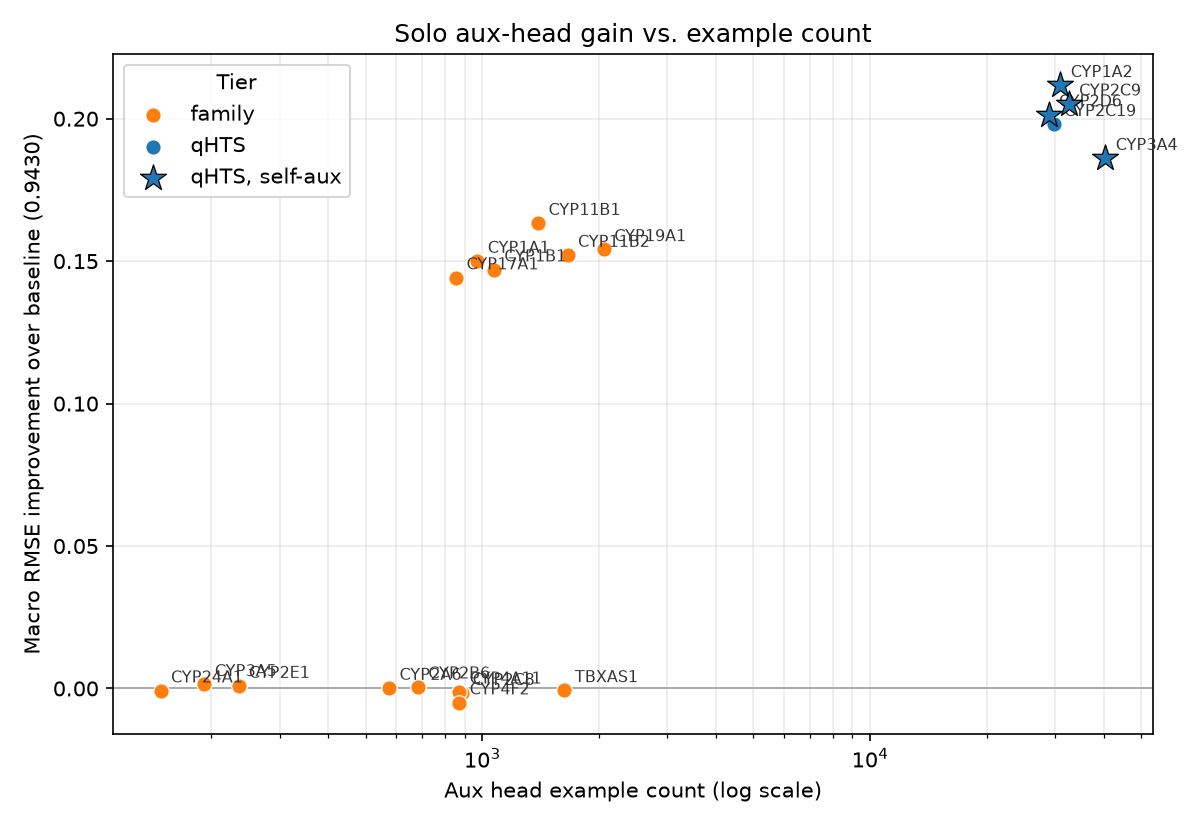
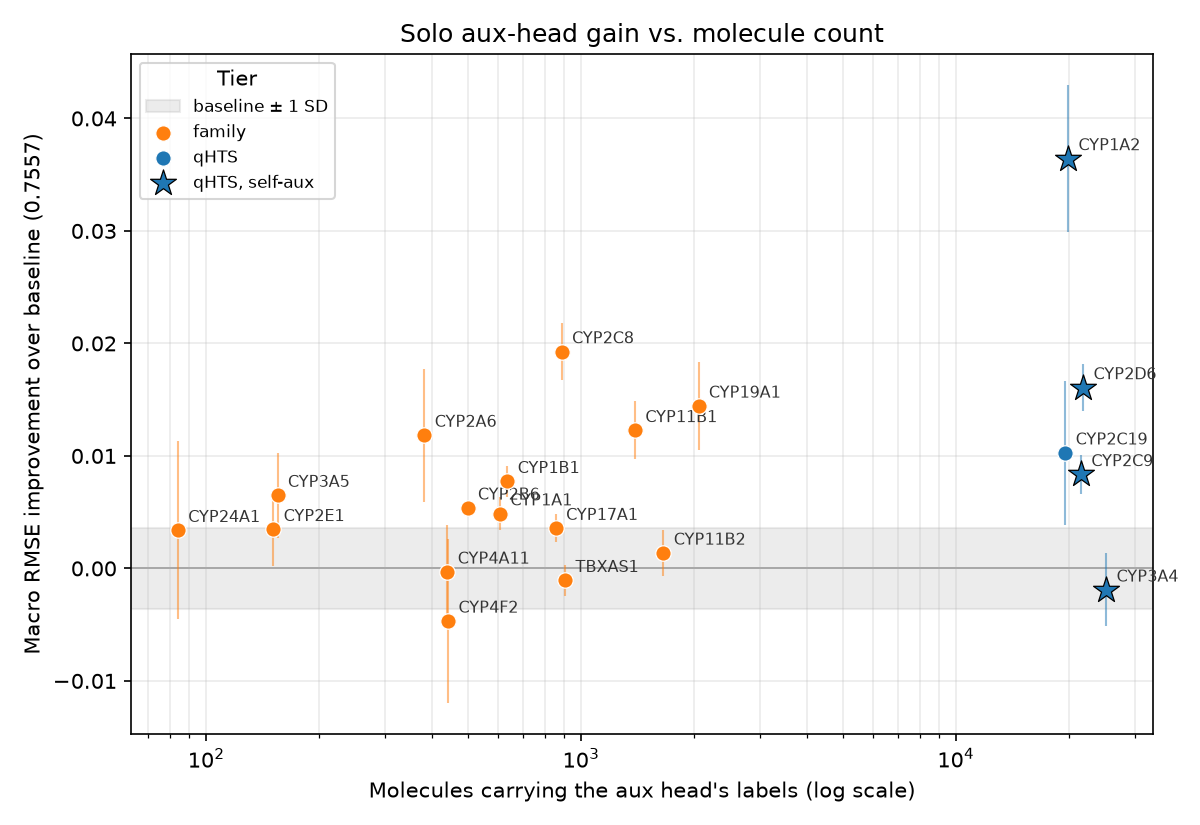
Compute plot_volume_vs_gain from data instead of a hardcoded table
The gene/count/RMSE table was hardcoded from a specific SCC run and
went stale the moment head-search or the union changed. Read gains from
results/head_search.json and molecule counts from
aux_similarity.py's --out table instead, so the plot regenerates itself
against whichever run produced those files.

diff --git a/scripts/plot_volume_vs_gain.py b/scripts/plot_volume_vs_gain.py
@@ -1,92 +1,106 @@
-"""Plot solo aux-head macro RMSE gain vs. example count (reports/head_search_analysis.md).
+"""Plot solo aux-head macro RMSE gain vs. molecule count (reports/head_search_analysis.md).
 
-Data hardcoded from results/data_counts.csv (row totals) and
-results/head_search_results.csv (solo-head macro RMSE, baseline 0.9430) --
-the BU SCC head-search run of 2026-09-14. Re-derive from those CSVs directly
-if either is regenerated.
+Gains come from the head-search JSON (solo configs only, `baseline - solo`, so
+positive means the head helped) and molecule counts from the `n_molecules`
+column of `scripts/aux_similarity.py`'s table -- molecules in the union that
+carry at least one of the head's labels, i.e. exactly what the fixed
+head-search adds to training when it selects that head. Error bars are the
+solo config's seed SD; the grey band is the baseline's.
+
+Usage:
+    python scripts/plot_volume_vs_gain.py \
+        [--results-path results/head_search.json] [--similarity-path results/aux_similarity.csv]
 """
 
+import argparse
+import csv
+import json
+import os
+import sys
 from pathlib import Path
 
-import matplotlib.pyplot as plt
+# Must precede the pyplot import: the default cache lands in $HOME, which is
+# over quota on the SCC.
+os.environ.setdefault("MPLCONFIGDIR", os.environ.get("TMPDIR", "/tmp") + "/mpl-cache")
+Path(os.environ["MPLCONFIGDIR"]).mkdir(parents=True, exist_ok=True)
 
-_BASELINE = 0.9430
+import matplotlib  # noqa: E402
 
-# gene, total rows, solo macro RMSE, tier, self-aux (isoform also has a scored column)
+matplotlib.use("Agg")
+import matplotlib.pyplot as plt  # noqa: E402
+
+# Isoforms that also have a scored column: their aux head trains the same
+# protein the metric is computed on.
 _SELF_AUX = {"CYP1A2", "CYP2C9", "CYP2D6", "CYP3A4"}
-
-_DATA = [
-    ("CYP3A4", 40432, 0.7569, "qHTS"),
-    ("CYP2C9", 32527, 0.7378, "qHTS"),
-    ("CYP1A2", 30958, 0.7313, "qHTS"),
-    ("CYP2C19", 29780, 0.7450, "qHTS"),
-    ("CYP2D6", 28847, 0.7416, "qHTS"),
-    ("CYP19A1", 2058, 0.7889, "family"),
-    ("TBXAS1", 1628, 0.9437, "family"),
-    ("CYP11B2", 1659, 0.7909, "family"),
-    ("CYP1B1", 1071, 0.7960, "family"),
-    ("CYP1A1", 971, 0.7930, "family"),
-    ("CYP2C8", 888, 0.9447, "family"),
-    ("CYP4A11", 872, 0.9442, "family"),
-    ("CYP4F2", 872, 0.9480, "family"),
-    ("CYP11B1", 1393, 0.7797, "family"),
-    ("CYP17A1", 856, 0.7988, "family"),
-    ("CYP2B6", 682, 0.9424, "family"),
-    ("CYP2A6", 575, 0.9429, "family"),
-    ("CYP2E1", 235, 0.9422, "family"),
-    ("CYP3A5", 192, 0.9416, "family"),
-    ("CYP24A1", 148, 0.9438, "family"),
-]
+_QHTS = {"CYP1A2", "CYP2C9", "CYP2C19", "CYP2D6", "CYP3A4"}
 
 _COLORS = {"qHTS": "#1f77b4", "family": "#ff7f0e"}
 
 
 def main() -> None:
     """Render the volume-vs-gain scatter to reports/data_volume_vs_gain.png."""
+    parser = argparse.ArgumentParser(description=__doc__, formatter_class=argparse.RawDescriptionHelpFormatter)
+    parser.add_argument("--results-path", type=Path, default=Path("results/head_search.json"))
+    parser.add_argument("--similarity-path", type=Path, default=Path("results/aux_similarity.csv"))
+    parser.add_argument("--out", type=Path, default=Path("reports/data_volume_vs_gain.png"))
+    args = parser.parse_args()
+
+    entries = json.loads(args.results_path.read_text())
+    baseline = next((e for e in entries if not e["candidates"]), None)
+    if baseline is None:
+        raise SystemExit(f"{args.results_path} has no baseline entry (one with an empty 'candidates')")
+    solo = {e["candidates"][0]: e for e in entries if len(e["candidates"]) == 1}
+
+    with args.similarity_path.open(newline="") as handle:
+        counts = {r["name"]: int(r["n_molecules"]) for r in csv.DictReader(handle) if not r["name"].startswith("__")}
+
+    missing = sorted(set(solo) - set(counts))
+    if missing:
+        print(f"WARNING: no molecule count for {missing}; dropped from the plot", file=sys.stderr)
+
+    base = baseline["macro_rmse_mean"]
+    base_sd = baseline["macro_rmse_sd"]
+    points = [
+        (gene, counts[gene], base - entry["macro_rmse_mean"], entry["macro_rmse_sd"])
+        for gene, entry in solo.items()
+        if gene in counts
+    ]
+
     fig, ax = plt.subplots(figsize=(8, 5.5))
+    ax.axhspan(-base_sd, base_sd, color="#999999", alpha=0.18, zorder=0, label="baseline ± 1 SD")
+    ax.axhline(0, color="#999999", linewidth=0.8, zorder=1)
 
-    for tier in ("family", "qHTS"):
-        rows = [d for d in _DATA if d[3] == tier and d[0] not in _SELF_AUX]
-        x = [r[1] for r in rows]
-        y = [_BASELINE - r[2] for r in rows]
-        ax.scatter(x, y, label=tier, color=_COLORS[tier], s=55, zorder=3, edgecolor="white", linewidth=0.6)
-
-    self_rows = [d for d in _DATA if d[0] in _SELF_AUX]
-    ax.scatter(
-        [r[1] for r in self_rows],
-        [_BASELINE - r[2] for r in self_rows],
-        label="qHTS, self-aux",
-        color=_COLORS["qHTS"],
-        marker="*",
-        s=170,
-        zorder=4,
-        edgecolor="black",
-        linewidth=0.6,
-    )
-
-    for gene, n, rmse, _tier in _DATA:
-        ax.annotate(
-            gene,
-            (n, _BASELINE - rmse),
-            textcoords="offset points",
-            xytext=(5, 4),
-            fontsize=7.5,
-            color="#333333",
+    groups = [
+        ("family", lambda g: g not in _QHTS, "o", 55),
+        ("qHTS", lambda g: g in _QHTS and g not in _SELF_AUX, "o", 55),
+        ("qHTS, self-aux", lambda g: g in _SELF_AUX, "*", 170),
+    ]
+    for label, keep, marker, size in groups:
+        rows = [p for p in points if keep(p[0])]
+        color = _COLORS["family" if label == "family" else "qHTS"]
+        ax.errorbar(
+            [r[1] for r in rows], [r[2] for r in rows], yerr=[r[3] for r in rows],
+            fmt="none", ecolor=color, alpha=0.5, linewidth=1.0, zorder=2,
+        )
+        ax.scatter(
+            [r[1] for r in rows], [r[2] for r in rows], label=label, color=color, marker=marker, s=size,
+            zorder=4, edgecolor="black" if marker == "*" else "white", linewidth=0.6,
         )
 
-    ax.axhline(0, color="#999999", linewidth=0.8, zorder=1)
+    for gene, n, gain, _sd in points:
+        ax.annotate(gene, (n, gain), textcoords="offset points", xytext=(5, 4), fontsize=7.5, color="#333333")
+
     ax.set_xscale("log")
-    ax.set_xlabel("Aux head example count (log scale)")
-    ax.set_ylabel("Macro RMSE improvement over baseline (0.9430)")
-    ax.set_title("Solo aux-head gain vs. example count")
-    ax.legend(title="Tier")
+    ax.set_xlabel("Molecules carrying the aux head's labels (log scale)")
+    ax.set_ylabel(f"Macro RMSE improvement over baseline ({base:.4f})")
+    ax.set_title("Solo aux-head gain vs. molecule count")
+    ax.legend(title="Tier", fontsize=8)
     ax.grid(True, which="both", alpha=0.25, zorder=0)
 
     fig.tight_layout()
-    out = Path("reports/data_volume_vs_gain.png")
-    out.parent.mkdir(parents=True, exist_ok=True)
-    fig.savefig(out, dpi=150)
-    print(f"Wrote {out}")
+    args.out.parent.mkdir(parents=True, exist_ok=True)
+    fig.savefig(args.out, dpi=150)
+    print(f"Wrote {args.out}", file=sys.stderr)
 
 
 if __name__ == "__main__":
